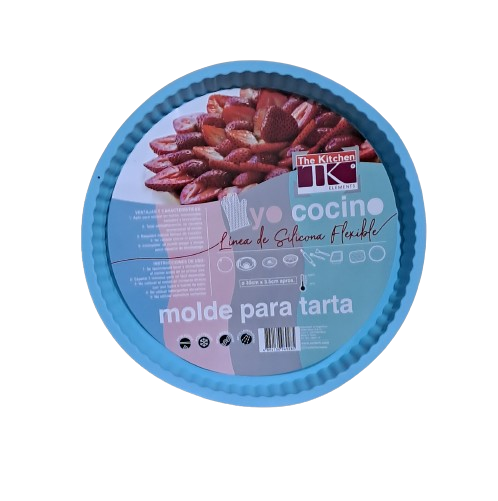
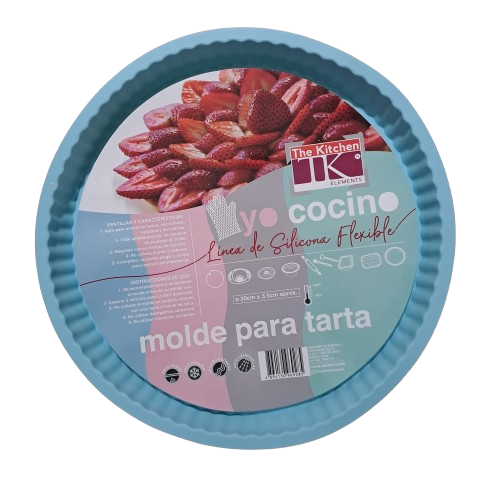
agregado de nuevos productos

diff --git a/js/products.js b/js/products.js
@@ -181,6 +181,7 @@ CARACTERISTICAS:
     img: [
       "img/productos/moldes/tarteraSilicona.png",
       "img/productos/moldes/tarteraSilicona1.png",
+      "img/productos/moldes/tarteraSilicona3.jpeg",
     ],
     detalle: "Tartera de silicona",
     descripcion: `Molde de Silicona Flexible
@@ -194,16 +195,124 @@ CARACTERISTICAS:
 - Directo al horno. Soporta temperaturas hasta 280 grados.
 
 `,
-    precio: 4000,
+    precio: 3500,
   },
+  
   {
     id: 10,
+    nombre: "PANTALON CHAMPIÓN UNISEX",
+    img: [
+      "img/productos/ropa/pantalonChampionBordo.webp",
+      "img/productos/ropa/pantalonChampionBordo1.jpeg",
+      "img/productos/ropa/pantalonChampionBordo2.jpeg",
+      "img/productos/ropa/pantalonChampionBordo3.jpeg",
+      "img/productos/ropa/pantalonChampionBordo4.jpeg",
+
+    ],
+    detalle: "CHAMPIÓN",
+    descripcion: `
+Género: Unisex
+Color: Rojo
+Disciplina: Moda
+Marca: CHAMPION
+Talle: L
+
+Pantalon Champion 100% Originial!
+
+Se puede ver el detalle de una marca sobre la franja blanca es por eso que su precio está casi a la mitad de su precio normal`,
+    precio: 45000,
+  },
+ 
+  {
+    id: 11,
+    nombre: "Pantalón Champion Jogger Negro",
+    img: [
+      "img/productos/ropa/pantalonChampionNegro.webp",
+      "img/productos/ropa/pantalonChampionNegro1.jpg",
+      "img/productos/ropa/pantalonChampionNegro2.jpg",
+      "img/productos/ropa/pantalonChampionNegro3.jpg",
+      "img/productos/ropa/pantalonChampionNegro4.png",
+      "img/productos/ropa/pantalonChampionNegro5.png",
+    ],
+    detalle: "Pantalón Deportivo CH Hombre Logo estampado",
+    descripcion: `
+Pantalón Deportivo CH Hombre Logo estampado
+
+Cintura con elastico reforzado
+
+Detalle de puños al tobillo 
+
+Corte Jogger 
+
+con bolsillos laterales
+
+Detalle en pierna de firma champion engomado 
+
+Confeccionado en Algodón
+
+Colores 👇
+
+NEGRO
+
+ 
+
+Talles 👇👇
+
+XS
+
+************************
+
+SU COLOR ES NEGRO OSCURO.
+QUIZAS EN LAS FOTO PUEDA VERSE EN OTRO TONO PERO ES NEGRO OSCURO.`,
+    precio: 40000,
+  },
+  {
+    id: 12,
+    nombre: "Buzo Champion C/ Capucha",
+    img: [
+      "img/productos/ropa/buzoChampionGris.jpg",
+      "img/productos/ropa/buzoChampionGris1.jpg",
+      "img/productos/ropa/buzoChampionGris2.jpg",
+      "img/productos/ropa/buzoChampionGris3.jpg",
+      "img/productos/ropa/buzoChampionGris4.webp",
+      "img/productos/ropa/buzoChampionGris5.webp",
+      "img/productos/ropa/buzoChampionGris6.webp",
+    ],
+    detalle: "Buzo Champion Logo Jersey Rustico Casual Urbano",
+    descripcion: `
+Productos 100% originales.
+Buzo Champion Logo Jersey Rustico C/ Capucha Casual Urbano.
+
+Edad: Adultos
+Tipo de prenda: Hoodie
+Material principal: Algodón
+Con capucha: Sí
+Es oversize: Sí
+Tipo de tela: Algodón
+Composición: 100% algodón
+Usos recomendados: Urbano
+
+TALLE XS`,
+    precio: 35000,
+  },
+  {
+    id: 13,
+    nombre: "Remera Champión",
+    img: [
+      "img/productos/ropa/remeraChampionGris.jpg",
+      "img/productos/ropa/remeraChampionGris1.jpg",
+      "img/productos/ropa/remeraChampionGris2.jpg",
+    ],
+    detalle: "REMERA CHAMPIÓN DEPORTIVA GRIS",
+    descripcion: ``,
+    precio: 25000,
+  },
+  {
+    id: 14,
     nombre: "Remera Champion Deportiva",
     img: [
       "img/productos/ropa/remeraChampion.webp",
       "img/productos/ropa/remeraChampion1.webp",
-      "img/productos/ropa/remeraChampion2.webp",
-      "img/productos/ropa/remeraChampion3.webp",
     ],
     detalle: "Talle M",
     descripcion: `
@@ -213,28 +322,10 @@ Talle: M
 Color predominante: Anaranjado
 Material Principal: Algodón
 Temporada: 23-Q4`,
-    precio: 15000,
+    precio: "AGOTADO",
   },
   {
-    id: 11,
-    nombre: "Buzo Champion",
-    img: [
-      "img/productos/ropa/buzoChampion.jpeg",
-      "img/productos/ropa/buzoChampion1.jpeg",
-      "img/productos/ropa/buzoChampion2.jpeg",
-      "img/productos/ropa/buzoChampion3.jpeg",
-    ],
-    detalle: "Talle S",
-    descripcion: `
-Género: Unisex
-Edad: Adulto
-Talle: S
-Color predominante: Amarillo
-Material Principal: Algodón con frizza`,
-    precio: 30000,
-  },
-  {
-    id: 12,
+    id: 15,
     nombre: "Conjunto Lotto",
     img: [
       "img/productos/ropa/conjuntoLotto.png",
@@ -256,7 +347,7 @@ es un conjunto marca Lotto Original!`,
     precio: 25000,
   },
   {
-    id: 13,
+    id: 16,
     nombre: "Mini Linterna",
     img: [
       "img/productos/varios/linterna.png",
@@ -265,27 +356,32 @@ es un conjunto marca Lotto Original!`,
     ],
     detalle: "Mini Linterna 9 Leds",
     descripcion: `Práctica linterna de mano ideal para llevar a todos lados. Con sus 9 leds tiene una gran potencia de iluminación.
-Es liviana y su cuerpo de aluminio la hace resistente pero a la vez portable y de fácil manipulación, resistente al agua y antideslizante.
-Es bajo consumo y utiliza pilas triple AAA (No vienen incluidas)`,
+  Es liviana y su cuerpo de aluminio la hace resistente pero a la vez portable y de fácil manipulación, resistente al agua y antideslizante.
+  Es bajo consumo y utiliza pilas triple AAA (No vienen incluidas)`,
     precio: 8000,
   },
   {
-    id: 14,
-    nombre: "Abrelatas",
+    id: 17,
+    nombre: "Buzo Champion",
     img: [
-      "img/productos/utensillos/abreLata.png",
-      "img/productos/utensillos/abreLata1.png",
+      "img/productos/ropa/buzoChampion.jpeg",
+      "img/productos/ropa/buzoChampion1.jpeg",
+      "img/productos/ropa/buzoChampion2.jpeg",
+      "img/productos/ropa/buzoChampion3.jpeg",
     ],
-    detalle: "Abrelatas The Kitchen Elements",
+    detalle: "Talle S",
     descripcion: `
-Abrelatas Mariposa
-Metal con mango plástico
-
-    20 cm aprox`,
-    precio: 3000,
+Género: Unisex
+Edad: Adulto
+Talle: S
+Color predominante: Amarillo
+Material Principal: Algodón con frizza`,
+    precio: "AGOTADO",
   },
+
+
   {
-    id: 15,
+    id: 18,
     nombre: "Pisa Papas The Kitchen Elements",
     img: [
       "img/productos/utensillos/pisaPapas.png",
@@ -295,19 +391,9 @@ Metal con mango plástico
     descripcion: ``,
     precio: 3500,
   },
+
   {
-    id: 16,
-    nombre: "Espumadera de Acero The Kitchen Elements",
-    img: [
-      "img/productos/utensillos/espumaderaAcero.png",
-      "img/productos/utensillos/espumaderaAcero1.png",
-    ],
-    detalle: "Espumadera The Kitchen Elements",
-    descripcion: ``,
-    precio: 3500,
-  },
-  {
-    id: 17,
+    id: 19,
     nombre: "Pizarra Mágica",
     img: [
       "img/productos/varios/pizarraMagica.webp",
@@ -315,6 +401,7 @@ Metal con mango plástico
     ],
     detalle: "Pizarra Infantil Magic Pad Tablet",
     descripcion: `
+Pizarra Infantil Magic Pad Tablet LCD 8,5".
 Estas pizarras estimulan la imaginación de los niños, las pizarras magnéticas les producen fascinación a los niños y les puede servir para estimular su capacidad creativa y potenciar la imaginación.
 Las pizarras magicas favorecen el proceso de aprendizaje en los niños, y estimulan la memoria , Una pizarra mágica ofrece una oportunidad para compartir tiempo con el niño.
 Incluye lápiz: Sí
@@ -326,35 +413,50 @@ Edad mínima recomendada
     precio: 6500,
   },
   {
-    id: 18,
-    nombre: "Espumadera The Kitchen Elements",
+    id: 20,
+    nombre: "Espumadera Nylon C/ Mango De Acero Inoxidable",
     img: [
       "img/productos/utensillos/espumaderaNegra.webp",
       "img/productos/utensillos/espumaderaNegra1.webp",
       "img/productos/utensillos/espumaderaNegra2.webp",
       "img/productos/utensillos/espumaderaNegra3.webp",
     ],
-    detalle: "Espumadera Nylon C/ Mango De Acero Inoxidable",
+    detalle: "The Kitchen Elements",
     descripcion: `
-Otras características
 Largo total: 35 cm
 Material del mango: Acero
 Material de la espumadera: Nylon
-Es apto para lavavajillas: Sí`,
+Es apto para lavavajillas: Sí
+
+UTENSILIO DE COCINA ESPUMADERA
+
+LINEA PREMIUM MANGO DE ACERO INOXIDABLE Y NYLON    
+`,
     precio: 2000,
   },
   {
-    id: 19,
-    nombre: "Colador The Kitchen Elements",
+    id: 18,
+    nombre: "Batidor Manual Silicona Mango Acero Inoxidable",
     img: [
-      "img/productos/utensillos/colador.png",
-      "img/productos/utensillos/colador1.png",
+      "img/productos/utensillos/batidor.webp",
+      "img/productos/utensillos/batidor1.webp",
+      "img/productos/utensillos/batidor2.webp",
+      "img/productos/utensillos/batidor3.webp",
     ],
-    detalle: "Colador de Acero",
+    detalle: "Batidor The Kitchen Elements",
     descripcion: `
-Colador Acero inoxidable
+Fuerte y duradero: este batidor de cocina está hecho de acero inoxidable duradero de alta calidad y pera de silicona que no rayan los platos.
 
-9 cm de diametro aprox.`,
-    precio: 1500,
+Diseño ergonómico para un excelente equilibrio y control para una diferencia que realmente puedes sentir en la mano.
+
+Multifuncional: los batidores de globos hacen que cocinar sea mucho más fácil y agradable.
+Fácil de almacenar: los extremos del mango de acero inoxidable son fáciles de colgar en cualquier gancho de tu cocina, lo que permite un fácil almacenamiento. Imprescindible para cocineros caseros y chefs de restaurantes.
+
+Material del batidor: Silicona
+Material del mango: Acero inoxidable
+Largo total: 25 cm
+`,
+    precio: 2000,
   },
+
 ];

diff --git a/js/startProduct.js b/js/startProduct.js
@@ -1,33 +1,13 @@
-document.addEventListener("DOMContentLoaded", () => {
-  //PRODUCTO ESTRELLA DEL INDEX
-  const productStar = document.createElement("div");
-  let sectionProdStar = document.getElementById("about-app");
+//PRODUCTO ESTRELLA DEL INDEX
 
-  products.forEach((product) => {
-    if (product.id == 17) {
-      productStar.innerHTML = `
-        <h1>
-          Producto Estrella
-          <a id="a" href="sproduct.html">Descubre la ${product.nombre}</a>
-        </h1>
-        <div class="video">
-          <video
-            controls
-            autoplay
-            loop
-            src="img/productos/varios//PizarraMagica1.mp4"
-            type="video/mp4"
-          ></video>`;
+products.forEach((product) => {
+  if (product.id == 17) {
+    const aStar = document.getElementById("a");
 
-      const aStar = document.getElementById("a");
-
-      aStar.addEventListener("click", () => {
-        localStorage.setItem("productStar", JSON.stringify(product));
-        localStorage.setItem("origenProducto", "index");
-        window.location.href = "sproduct.html";
-      });
-    }
-
-    sectionProdStar.appendChild(productStar);
-  });
+    aStar.addEventListener("click", () => {
+      localStorage.setItem("productStar", JSON.stringify(product));
+      localStorage.setItem("origenProducto", "index");
+      window.location.href = "sproduct.html";
+    });
+  }
 });

diff --git a/index.html b/index.html
@@ -103,8 +103,22 @@
       </a>
     </section>
 
-    <!-- PRODUCTO DESTACADO -->
+    <!-- PRODUCTO ESTRELLA -->
     <section id="about-app" class="section-p1">
+
+      <h1 id="sectionEstrella-h1">
+        Producto Estrella
+        <a id="a" href="sproduct.html">Descubre la Pizarra Mágica</a>
+      </h1>
+      <div class="video">
+        <video
+          controls
+          autoplay
+          loop
+          src="img/productos/varios//PizarraMagica1.mp4"
+          type="video/mp4"
+        ></video>`;
+
     </section>
 
     <!-- BANNER SM -->
